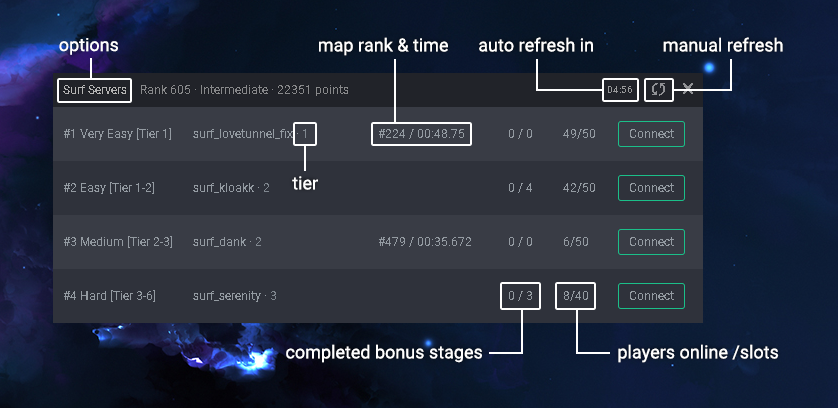
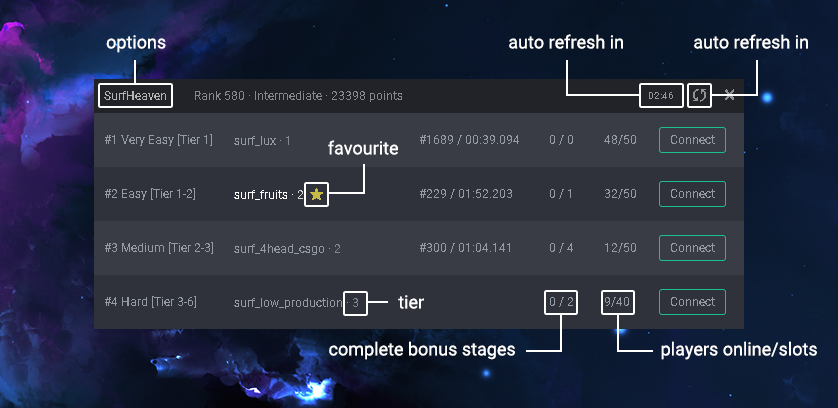
added favourites

diff --git a/app/css/fontello-embedded-surf.css b/app/css/fontello-embedded-surf.css
@@ -1,15 +1,15 @@
 @font-face {
   font-family: 'fontello';
-  src: url('../font/fontello.eot?91133780');
-  src: url('../font/fontello.eot?91133780#iefix') format('embedded-opentype'),
-       url('../font/fontello.svg?91133780#fontello') format('svg');
+  src: url('../font/fontello.eot?14323546');
+  src: url('../font/fontello.eot?14323546#iefix') format('embedded-opentype'),
+       url('../font/fontello.svg?14323546#fontello') format('svg');
   font-weight: normal;
   font-style: normal;
 }
 @font-face {
   font-family: 'fontello';
[4 lines of base64/hex data omitted]
 }
 /* Chrome hack: SVG is rendered more smooth in Windozze. 100% magic, uncomment if you need it. */
 /* Note, that will break hinting! In other OS-es font will be not as sharp as it could be */
@@ -17,7 +17,7 @@
 @media screen and (-webkit-min-device-pixel-ratio:0) {
   @font-face {
     font-family: 'fontello';
-    src: url('../font/fontello.svg?91133780#fontello') format('svg');
+    src: url('../font/fontello.svg?14323546#fontello') format('svg');
   }
 }
 */
@@ -26,7 +26,7 @@
   font-family: "fontello";
   font-style: normal;
   font-weight: normal;
-  speak: none;
+  speak: never;
  
   display: inline-block;
   text-decoration: inherit;
@@ -38,7 +38,7 @@
   /* For safety - reset parent styles, that can break glyph codes*/
   font-variant: normal;
   text-transform: none;
-     
+ 
   /* fix buttons height, for twitter bootstrap */
   line-height: 1em;
  
@@ -52,5 +52,6 @@
   /* Uncomment for 3D effect */
   /* text-shadow: 1px 1px 1px rgba(127, 127, 127, 0.3); */
 }
-.icon-cancel:before { content: '\e808'; } /* '' */
-.icon-arrows-ccw:before { content: '\e809'; } /* '' */
+.icon-arrows-ccw:before { content: '\e800'; } /* '' */
+.icon-cancel:before { content: '\e801'; } /* '' */
+.icon-star:before { content: '\e802'; } /* '' */

diff --git a/app/js/app.js b/app/js/app.js
@@ -4,9 +4,15 @@ $(document).ready(async function() {
 	const ipc = require('electron').ipcRenderer;
 	const fs = require('fs');
 
-	var config = JSON.parse(fs.readFileSync('config.json').toString());
+	const configFile = 'config.json';
+
+	var config = JSON.parse(fs.readFileSync(configFile).toString());
 	var firstRun = true;
 	var timer;
+
+	function saveSettings(file, json) {
+		fs.writeFileSync(file, JSON.stringify(json));
+	}
 
 	$('#close').on('click', function() {
 		var window = remote.getCurrentWindow();
@@ -16,6 +22,19 @@ $(document).ready(async function() {
 
 	$(document).on('click', '#toggleOptions, .optionsLink', function() {
 		$('#container').toggleClass('showOptions');
+	})
+
+	$(document).on('click', '#data .star', function() {
+		$(this).parent().toggleClass('active');
+
+		if($(this).parent().hasClass('active')) {
+			config.favourites.push($(this).parent().find('.map').text());
+		} else {
+			config.favourites.splice(config.favourites.indexOf($(this).parent().find('.map').text()), 1);
+		}
+
+		saveSettings(configFile, config);
+
 	})
 
 	$('#saveSettings').on('click', function() {
@@ -32,7 +51,7 @@ $(document).ready(async function() {
 			
 		}
 
-		fs.writeFileSync('config.json', JSON.stringify(config));
+		saveSettings(configFile, config);
 
 		firstRun = true;
 
@@ -68,7 +87,7 @@ $(document).ready(async function() {
 
 			if(receivedPlayerID.steamid !== undefined) {
 				config.playerID = receivedPlayerID.steamid;
-				fs.writeFileSync('config.json', JSON.stringify(config));
+				saveSettings(configFile, config);
 			}
 		}
 		
@@ -178,7 +197,7 @@ $(document).ready(async function() {
 				
 				$('#temp').append('<tr></tr>');
 				$('#temp tr:last-child').append('<td style="width:130px;">'+ (server.name).replace('SurfHeaven ', '') +'</td>');
-				$('#temp tr:last-child').append('<td>'+ server.map +'  &middot; <span style="opacity:.8">'+ mapInfo.tier +'</span></td>');
+				$('#temp tr:last-child').append('<td'+ ((config.favourites.includes(server.map)) ? ' class="active"' : '') +'><span class="map">'+ server.map +'</span>  &middot; <span style="opacity:.8">'+ mapInfo.tier +'</span> <span class="star"><i class="icon icon-star" style="font-size:14px;"></i></span></td>');
 				$('#temp tr:last-child').append('<td style="width:130px;">'+((mapBestTimes[server.map] !== undefined && mapBestTimes[server.map].time != 0) ? '#' + mapBestTimes[server.map]['rank'] + ' / ' + mapBestTimes[server.map]['time'] : '')+'</td>');
 				$('#temp tr:last-child').append('<td style="width:55px;">'+ completedBonuses +' / '+mapInfo.bonus+'</td>');
 				$('#temp tr:last-child').append('<td style="width:55px;">'+ server.playercount +'/'+ server.maxplayers +'</td>');

diff --git a/app/css/style.css b/app/css/style.css
@@ -105,6 +105,7 @@ table tr:nth-of-type(2n+1) {
 
 table tr td {
 	padding: 14px 10px;
+	transition: color .3s;
 }
 
 table a {
@@ -305,4 +306,26 @@ table a:hover {
 
 .optionsLink:hover {
 	color: #8385de;
+}
+
+#data td .star {
+	opacity: 0;
+	transition: opacity .3s;
+}
+
+#data td:hover .star {
+	opacity: .4;
+}
+
+#data td .star:hover {
+	cursor: pointer;
+}
+
+#data td.active .star {
+	color: #C7B947;
+	opacity: 1 !important;
+}
+
+#data td.active {
+	color: white;
 }

diff --git a/app/main.html b/app/main.html
@@ -23,7 +23,7 @@
 			
 			<ul id="nav">
 				<li><i class="icon icon-arrows-ccw" id="reload" style="font-size:16px;"></i></li>
-				<li><i class="icon icon-cancel" id="close" style="font-size:21px;"></i></li>
+				<li><i class="icon icon-cancel" id="close" style="font-size:20px;line-height: 26px;"></i></li>
 			</ul>
 		</div>
 
